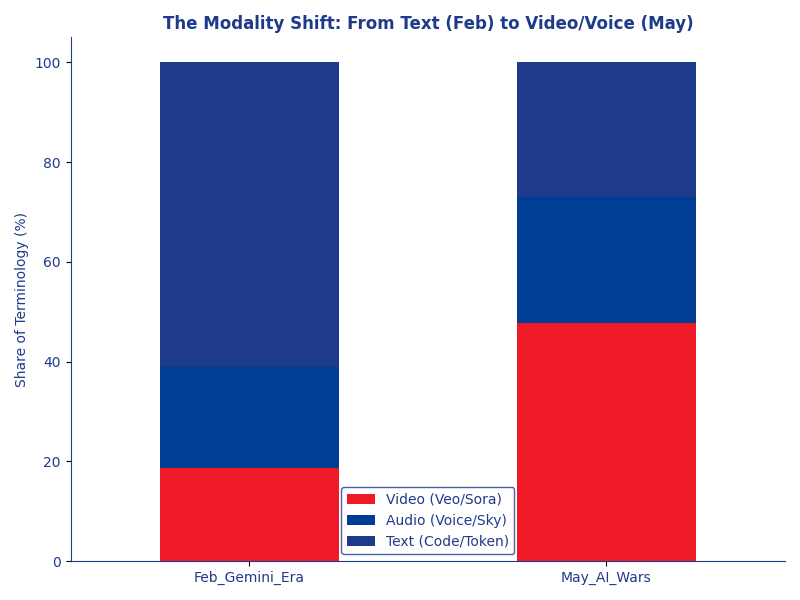
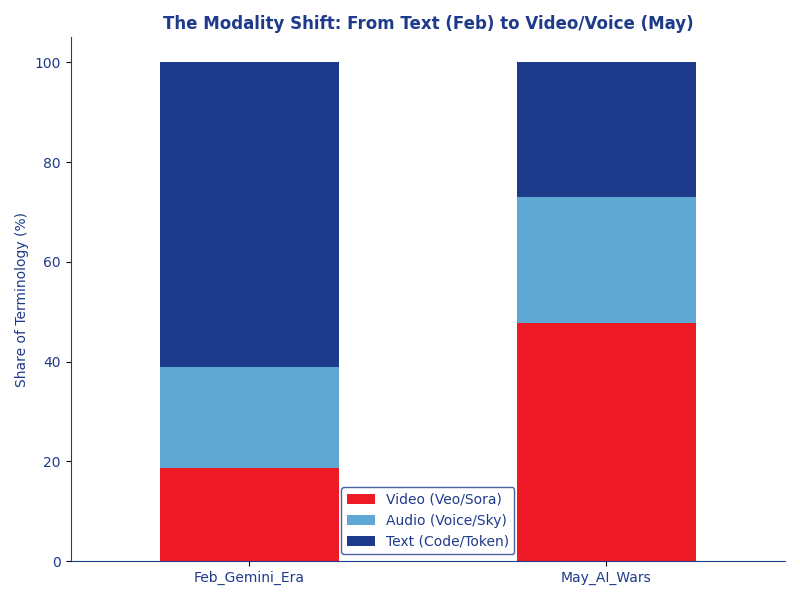
update colors

Changed region(s): [[0.625, 0.33, 0.875, 0.54], [0.1875, 0.6, 0.4375, 0.78], [0.4375, 0.84, 0.4688, 0.9]]

diff --git a/common-crawl/scripts/nlp_analysis.py b/common-crawl/scripts/nlp_analysis.py
@@ -222,7 +222,7 @@ if not mod_df.empty:
     fig = plt.figure(figsize=(8, 6), facecolor='white')
     ax = plt.gca()
     ax.set_facecolor('white')
-    grouped_pct.plot(kind='bar', stacked=True, color=['#ee1b27', '#003E96', '#1E3A8A'], ax=ax)
+    grouped_pct.plot(kind='bar', stacked=True, color=['#ee1b27', '#5FA8D3', '#1E3A8A'], ax=ax)
     plt.title("The Modality Shift: From Text (Feb) to Video/Voice (May)", color='#1E3A8A', fontweight='bold')
     plt.ylabel("Share of Terminology (%)", color='#1E3A8A')
     plt.xlabel("", color='#1E3A8A')
